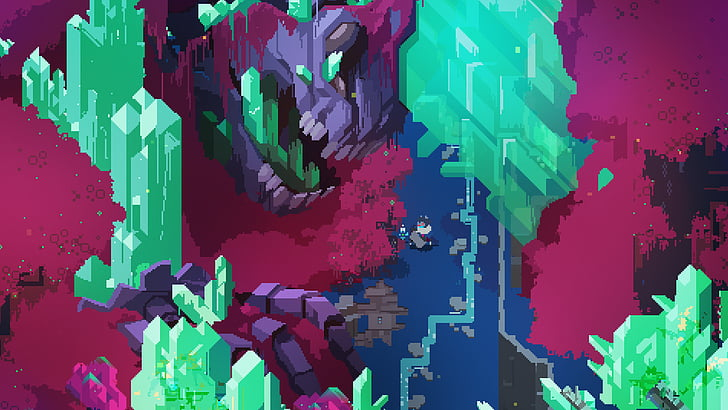
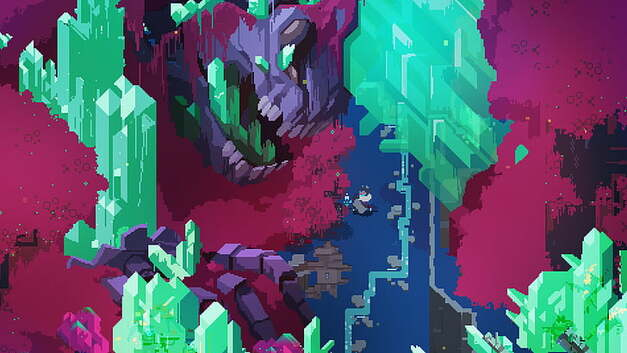
Images Reformated

diff --git a/home/home.html b/home/home.html
@@ -96,7 +96,7 @@
     <section id="cardsRow">
 
       <section id="cardFormat">
-        <a href="/post/post.html"><img id="cardImage" src="/imgs/eastward.jpg"></a>
+        <a href="/post/post.html"><img id="cardImage" src="/imgs/eastward.png"></a>
         
         <div class="cardInfo">
           <p class="cardTopic 4">
